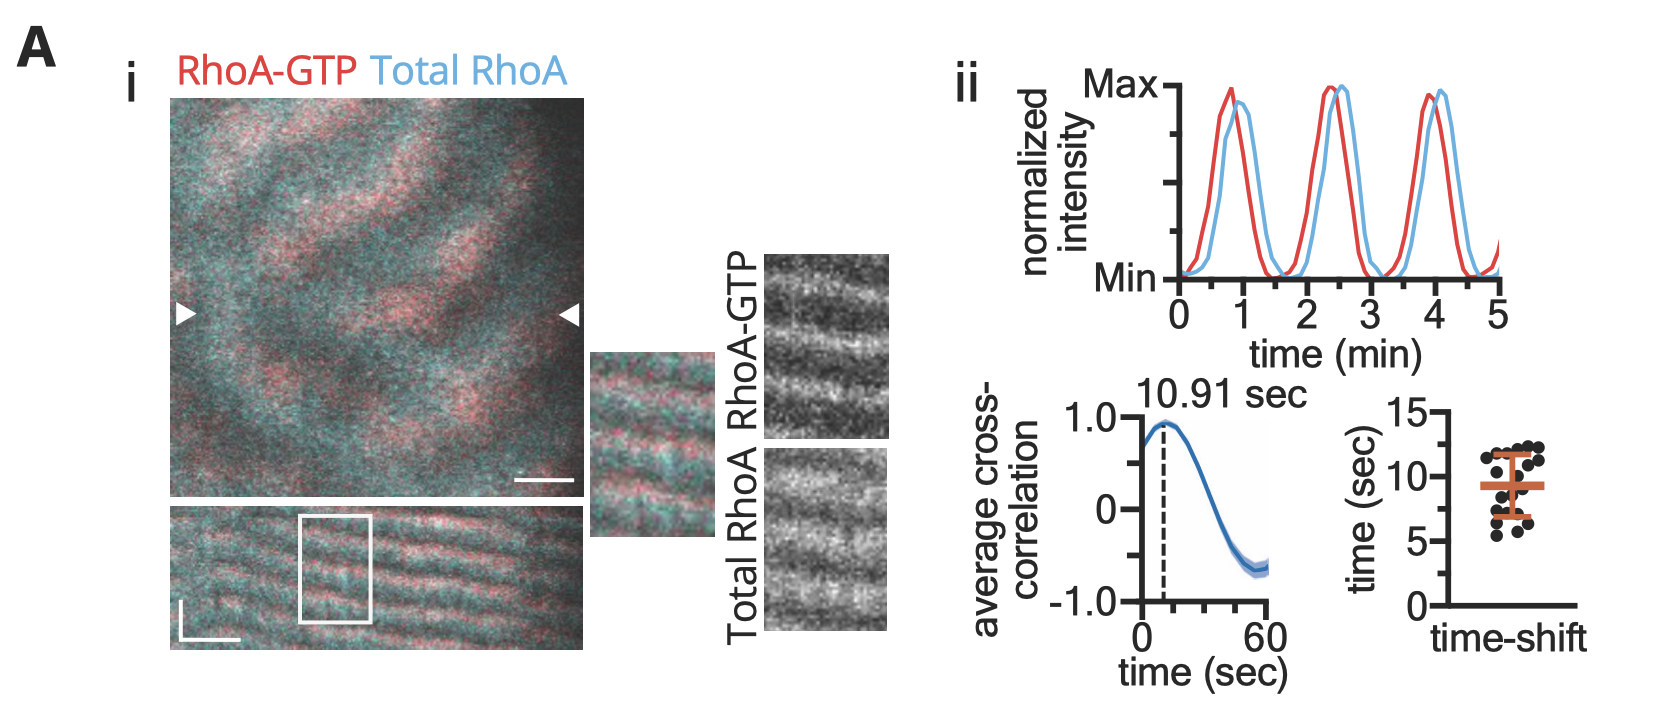
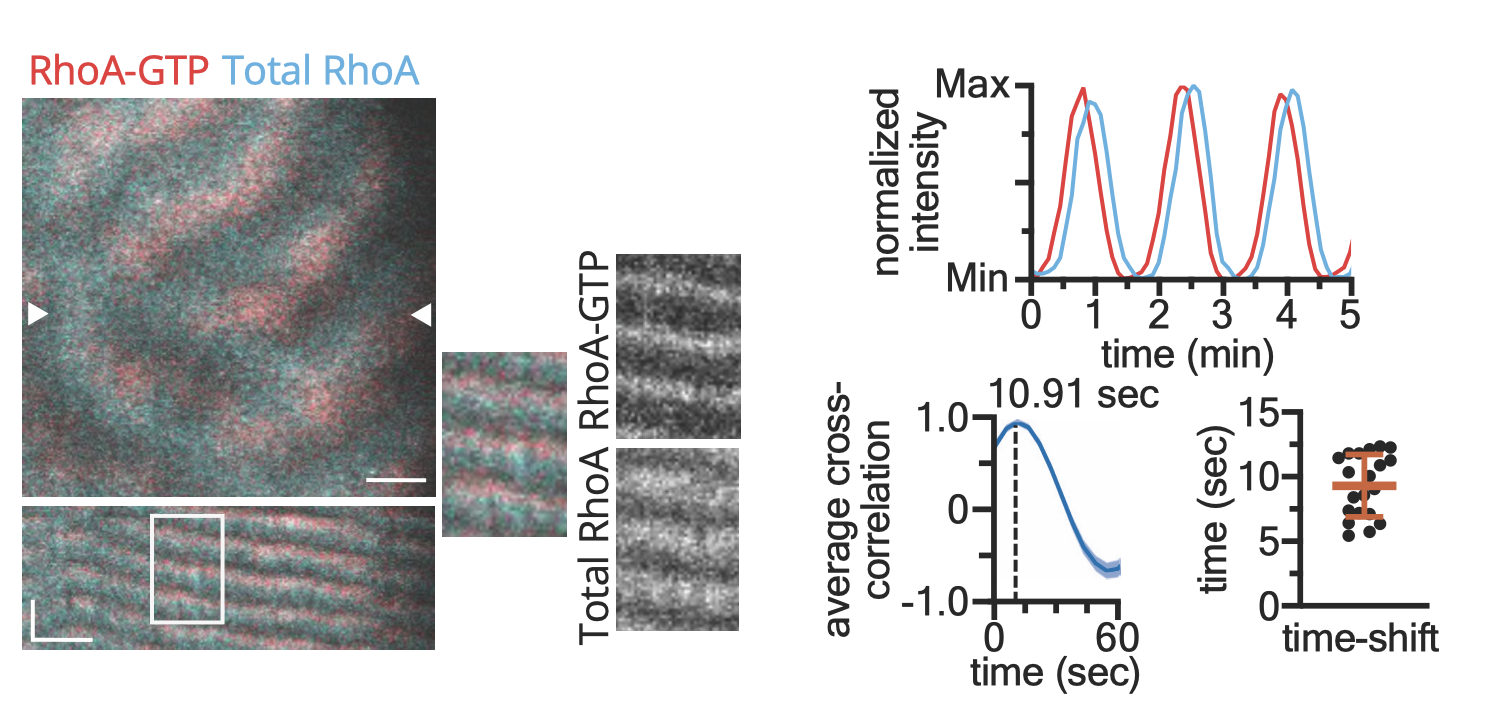
update total rho image

diff --git a/research.html b/research.html
@@ -72,7 +72,7 @@
 
                 <!-- Project 2 -->
                 <div class="project-card"
-                    style="border: 1px solid var(--border-color); border-radius: 8px; overflow: hidden; background: #fff; box-shadow: 0 4px 8px rgba(0, 0, 0, 0.1);">">
+                    style="border: 1px solid var(--border-color); border-radius: 8px; overflow: hidden; background: #fff; box-shadow: 0 4px 8px rgba(0, 0, 0, 0.1);">
                     <img src="assets/images/TotalRho.png" alt="Distinguishing between Models of Cortical Excitability"
                         style="width: 100%; height: 200px; object-fit: cover;">
                     <div style="padding: var(--spacing-sm);">
